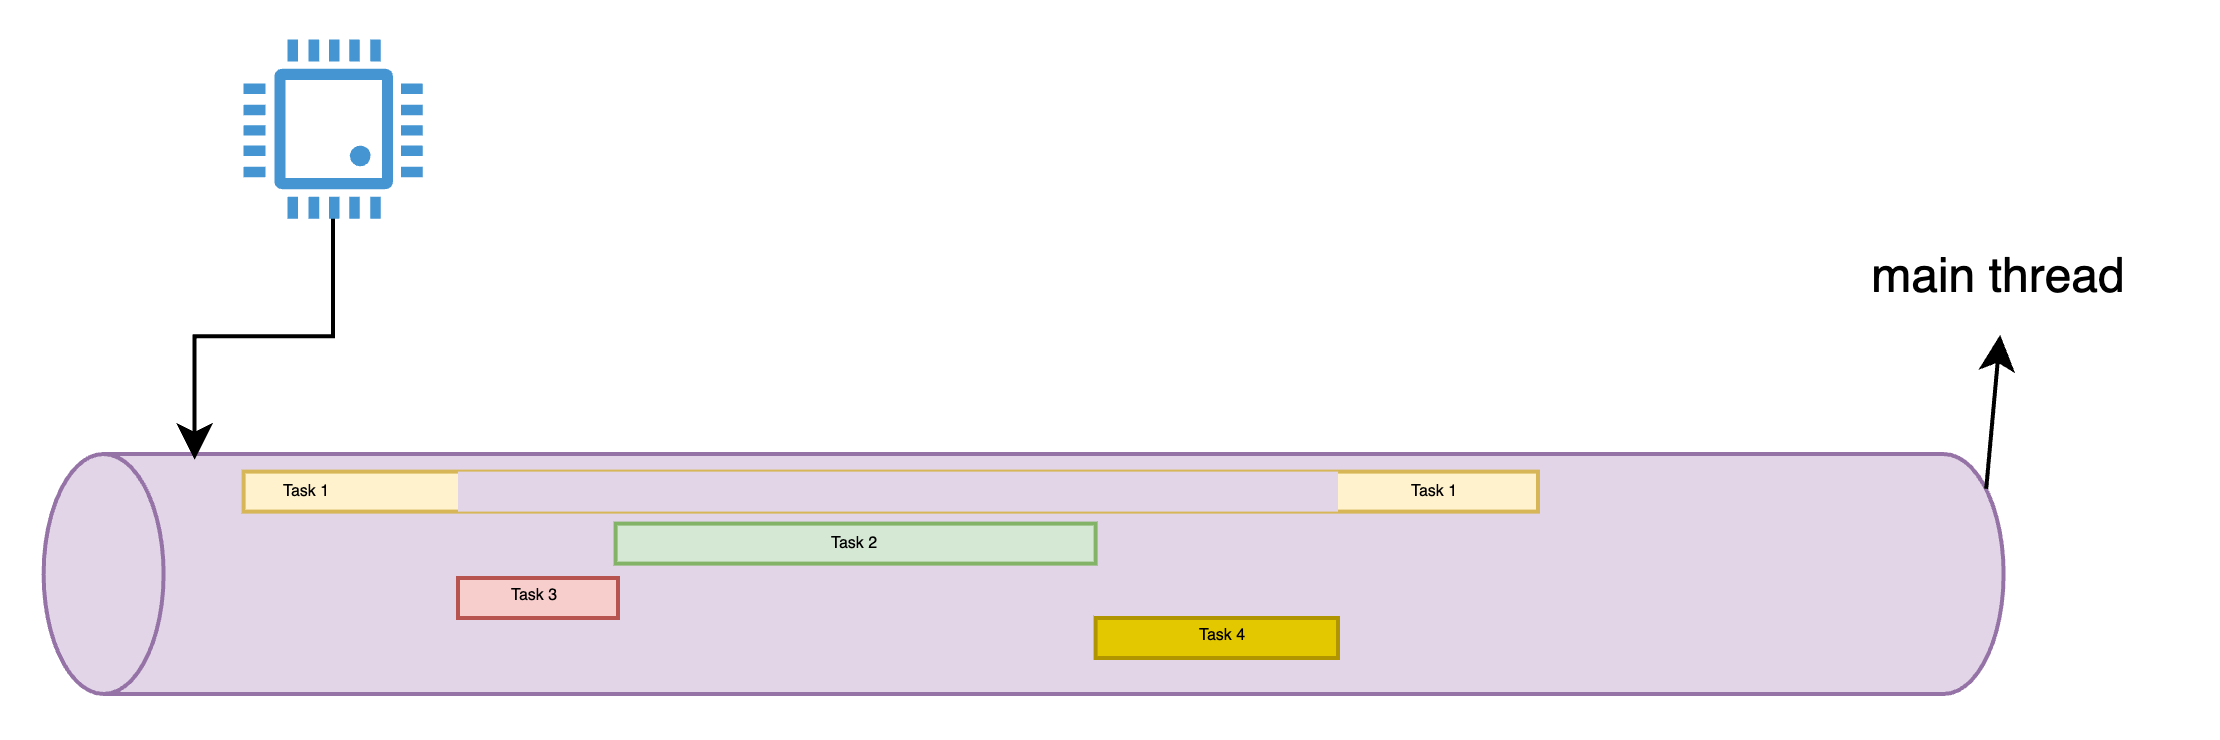
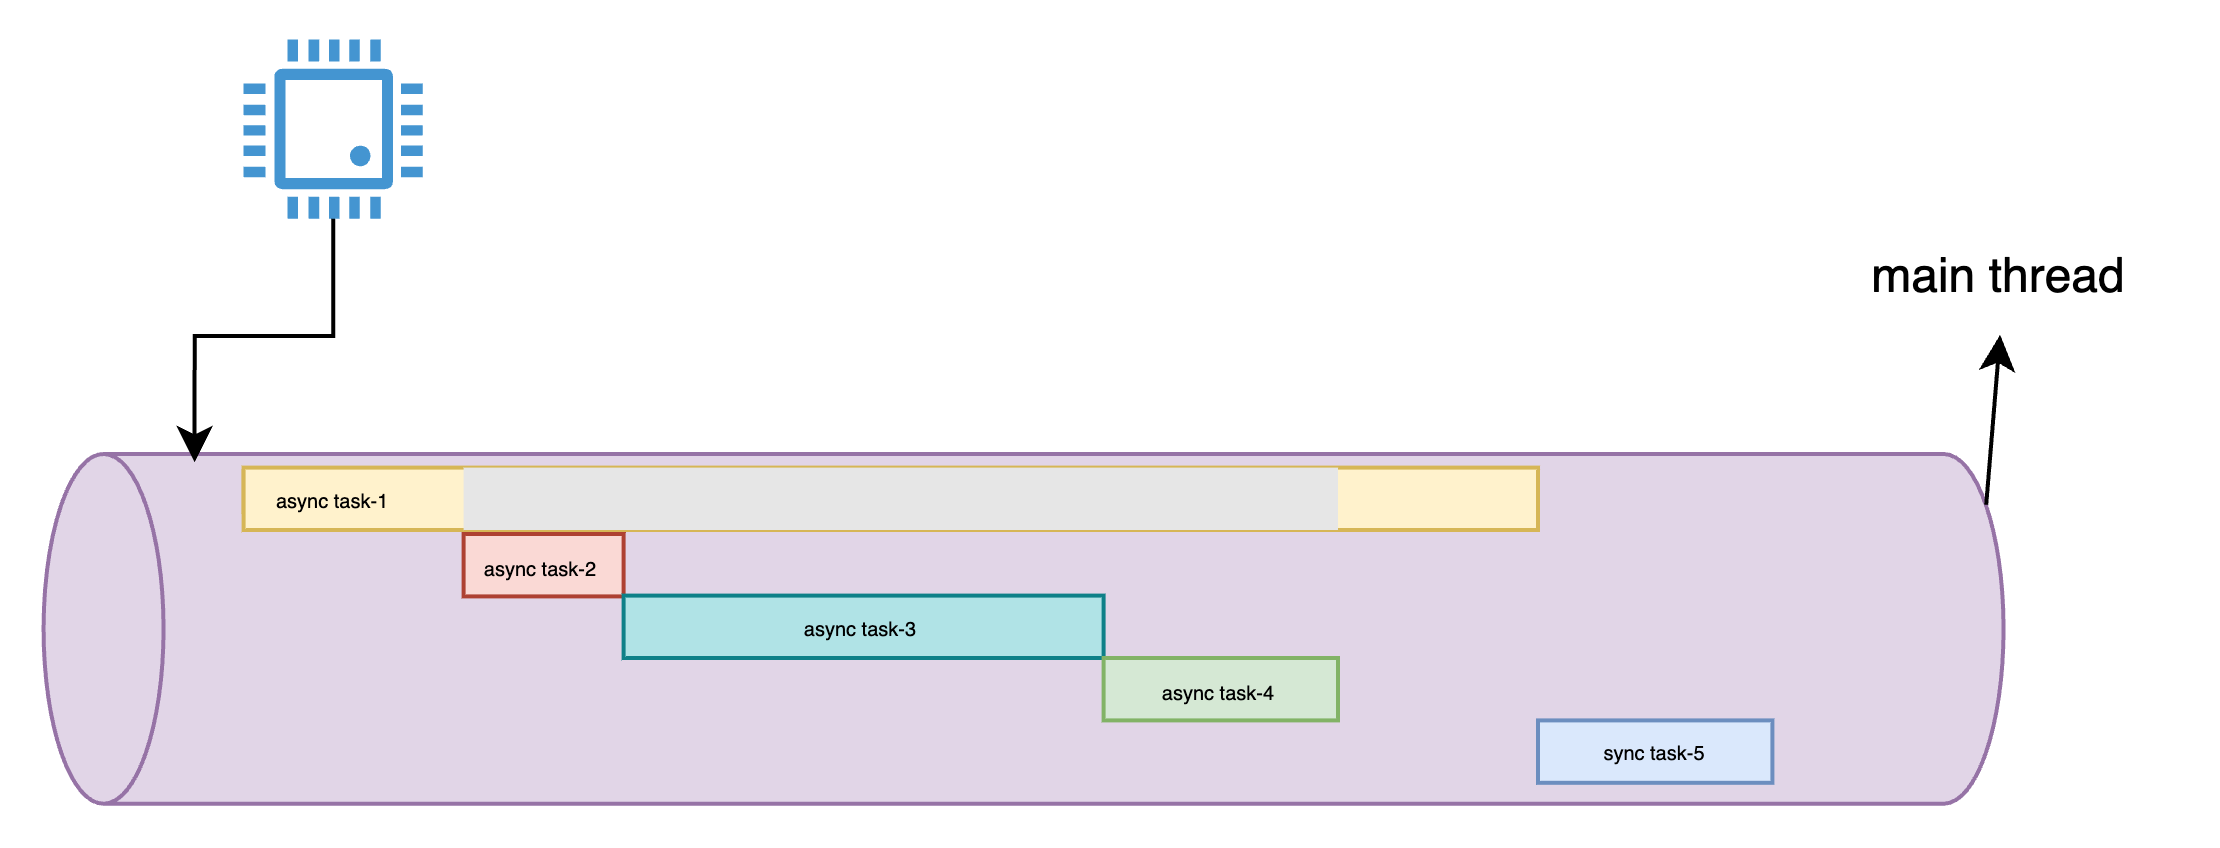
async notes updated with lots of clarrification

diff --git a/tuts/topics/async/spawn_blocking.rs b/tuts/topics/async/spawn_blocking.rs
@@ -1,0 +1,32 @@
+//! Demonstrate spawn blocking for a sync task
+//! in main thread
+
+#[tokio::main(flavor = "current_thread")]
+async fn main() -> eyre::Result<()> {
+	tokio::spawn(async {
+		// Async task 1
+		tokio::time::sleep(tokio::time::Duration::from_secs(2)).await;
+		println!("Async task 1 done");
+	})
+	.await?;
+
+	tokio::spawn(async {
+		// Async task 2
+		tokio::time::sleep(tokio::time::Duration::from_secs(3)).await;
+		println!("Async task 2 done");
+	})
+	.await?;
+
+	let sync_task = || {
+		// Some synchronous, CPU-bound work
+		std::thread::sleep(std::time::Duration::from_secs(1)); // Simulating work
+		println!("Synchronous task done");
+	};
+
+	// Execute sync_task in a way that doesn't block the async runtime
+	tokio::task::spawn_blocking(sync_task).await?;
+
+	println!("Main task done");
+
+	Ok(())
+}

diff --git a/tuts/topics/async/README.md b/tuts/topics/async/README.md
@@ -3,16 +3,33 @@
 ## Overview
 
 - Asynchronous programming in Rust.
+- Common keywords
+  - Hardware/Software: **Core**, **Thread**, **Task**, **OS** (sorted by most used).
+  - Rust code: `async`, `await`, `Future`, `poll`, `Poll::Ready`, `Poll::Pending`.
+- **OS** schedules **threads** based on the number of available CPU **cores**. In an ideal situation, 1 thread is mapped to each core given the no. of threads spawned ≤ no. of CPU cores. This is what happens during `#[tokio::main]` when used in Rust code.
+  > NOTE: For a large program, threads count can go upto tens of thousands handled by just few cores. So, mapping 1 thread to 1 core is incorrect.
+- 💡 🤯 🔥 **CPU cores used do not depend on the no. of threads, but rather aimed to run the synchronous/asynchronous code (program running on OS) using its max. limit on machine. As mentioned previously, OS schedule thread(s) to CPU core(s)**.
+- Threads are for handling async tasks. Threads are spawned by user code (programs running on top of OS) to handle tasks asynchronously.
+  - Like we have `#[tokio::main]` representing multi-threaded code. This means that we can have multiple async tasks handled by multiple threads.
+  - Like we have `#[tokio::main(flavor="current_thread")]` representing single-threaded code. This means that there is a single thread to handle async tasks.
+- In rust, there is no default async executor (runtime). So, community started building with tokio first, then many more like [smol](https://crates.io/crates/smol), etc. Moreover, the tokio runtime by default used as multi-threaded via `#[tokio::main]` which means when the `main` program is running, then you can spawn multiple threads inside & the modern machine can take care of this. Please ensure you disable multi-thread in `tokio` in low computing devices like microcontrollers, where possibly we would have 1 or 2 cores depending on the model.
 - Async is different than parallelism, concurrency.
-  - **parallelism**: Multiple CPU cores doing multiple tasks at the same time. In rust, there is a crate called [`rayon`](https://crates.io/crates/rayon) which provides parallelism.
+  - **parallelism**: Multiple CPU cores doing multiple tasks at the same time. In rust, there is a crate called [`rayon`](https://crates.io/crates/rayon) which provides parallelism. Parallelism involves performing multiple operations at the exact same time, which requires a multi-core processor. Rust's threading model enables parallel execution by allowing separate threads to run on different CPU cores simultaneously. This is particularly useful for CPU-bound tasks that can be divided into independent units of work.
     ![](../../../img/parallelism_diagram.png)
   - **concurrency**: A single CPU core doing multiple tasks, but only one task is running at a time. It's kind of like _faking parallelism_. It's like watching a YT video and listening to another music at the same time. You are not watching both at the same time, but you are switching between them. So, here the CPU does take some <kbd>pause</kbd>s in between. Hence, the idle time. So, these idle times could be because of moving some mouse or keyboard. Here, there is a concept of context switching.
     ![](../../../img/concurrency_diagram.png)
   - **asynchronous**: Single CPU core doing multiple tasks, but only one task is running at a time, and the tasks are not blocking the main thread. Hence, _no idle time_. In the diagram below, the task-1 is paused because it is waiting for some resources/information that can be achieved after the completion of the other 3 tasks. So, after task 4 ends, the task-1 resumes. In rust, there is a crate called [`tokio`](https://crates.io/crates/tokio) which provides asynchronous programming. In other words, asynchronous involves sometimes parallelism or concurrency.
     ![](../../../img/async_diagram.png)
-    And we should know when to use what. There are mainly 2 types of work:
-    - **CPU bound**: lot of processing related work (crunching no.s). In this case, parallelism can be really helpful.
-    - **I/O bound**: lot of networking related work like connecting to a network server and waiting for its response. It could also be reading files or getting responses based on thousands of requests to a server. Here, connection pooling could be helpful. This includes opening multiple connections at different ports & sending requests to them. In this case, concurrency can be really helpful.
+
+   In a single-threaded mode, like `#[tokio::main(flavor = "current_thread")]` in a 4-core machine. Generally done for small tasks that mostly gets handled by a single thread.<br/>
+   Total no. of threads = 1<br/>
+   Additional thread for the synchronous `task-5`:
+  - If executed directly within the async context or main function: 0 additional threads, running everything on the main thread.
+  - If offloaded to another thread: 1 additional thread. So, total no. of threads become 2.
+
+   And we should know when to use what. There are mainly 2 types of task:
+  - **CPU bound task**: lot of processing related work (crunching no.s). In this case, parallelism can be really helpful.
+  - **I/O bound task**: lot of networking related work like connecting to a network server and waiting for its response. It could also be reading files or getting responses based on thousands of requests to a server. Here, connection pooling could be helpful. This includes opening multiple connections at different ports & sending requests to them. In this case, concurrency can be really helpful.
 - On a high level, the `async`/`await` syntax is a way to write asynchronous code that looks like synchronous code. On a low level, there is a trait `Future` which has a function - `poll` which constantly checks if the task is done or not. If it is done, then it returns `Poll::Ready`. If it is not done, then it returns `Poll::Pending` and then it is constantly checked by the executor like `#[tokio::main]` macro. So, the `async`/`await` syntax is just a way to write asynchronous code that looks like synchronous code. It is just a syntactic sugar. It is not a new concept. It is just a new way of writing asynchronous code. It is just a new way of writing `Future` trait.
 - There is a `Future` trait in the std library which is similar to the concept of a `Promise` in JavaScript.
 - Futures are inert in Rust and make progress only when polled. Dropping a future stops it from making further progress.
@@ -153,6 +170,35 @@ Below is the hardware diagram of the above code working under the hood:
 And here is the corresponding sequence diagram:
 
 ![](../../../img/async_rust_2.png)
+
+Here:
+
+`step-1`: From the code perspective, `#[tokio::main]` attribute is the executor which runs all the async functions put inside the `main` fn, in an spawned/unspawned threaded condition. In this program, I/O bound operation is shown as it handles TCP request/response.
+
+In an CPU bound operation, it would be handled by the CPU layer for handling multiple threads as shown in the code below:
+
+```mermaid
+flowchart
+   subgraph A[multi-threaded main fn]
+      subgraph A1[thread-1]
+         B[async fn-1]
+      end
+      subgraph A2[thread-2]
+         C[async fn-2]
+      end
+      subgraph A3[thread-3]
+         D[async fn-3]
+      end
+   end
+```
+
+The above code has multiple threads spawned which is going to be taken care of by all cores of machine.
+
+Multiple cases possible in an 8-core (say) machine with `#[tokio::main]` attribute:
+
+1. <u>no. of core < threads</u>: some threads have to wait
+2. <u>no. of core = threads</u>: each core takes up 1 thread
+3. <u>no. of core > threads</u>: each core takes up 1 thread & the pending threads are taken up as soon as any of the cores get free.
 
 ---
 
